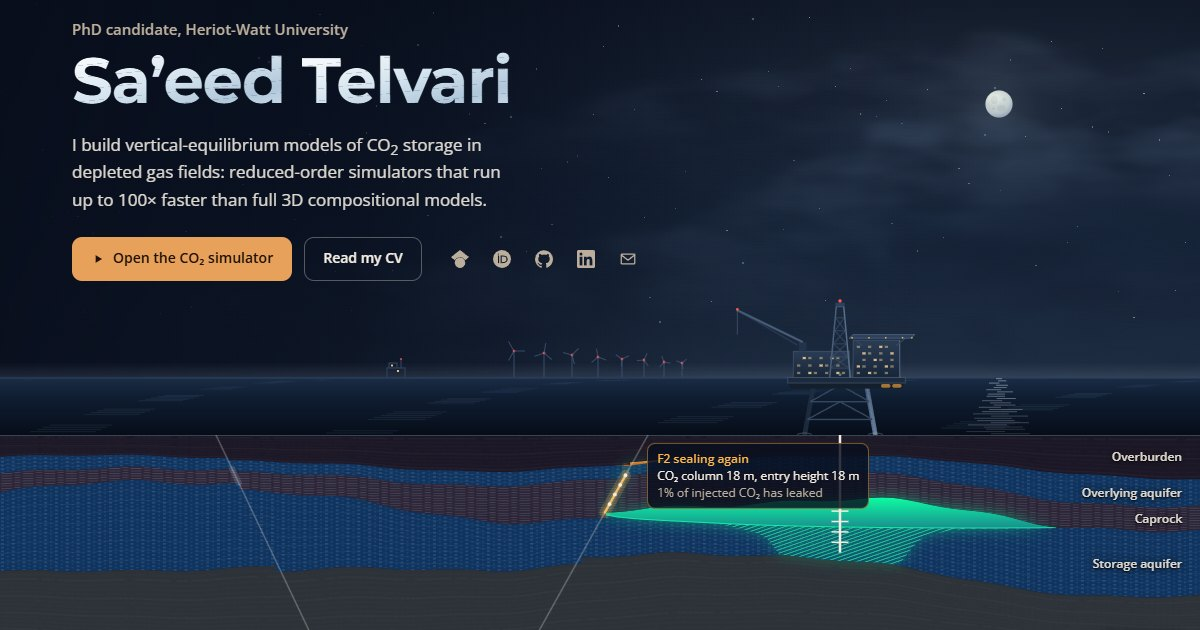
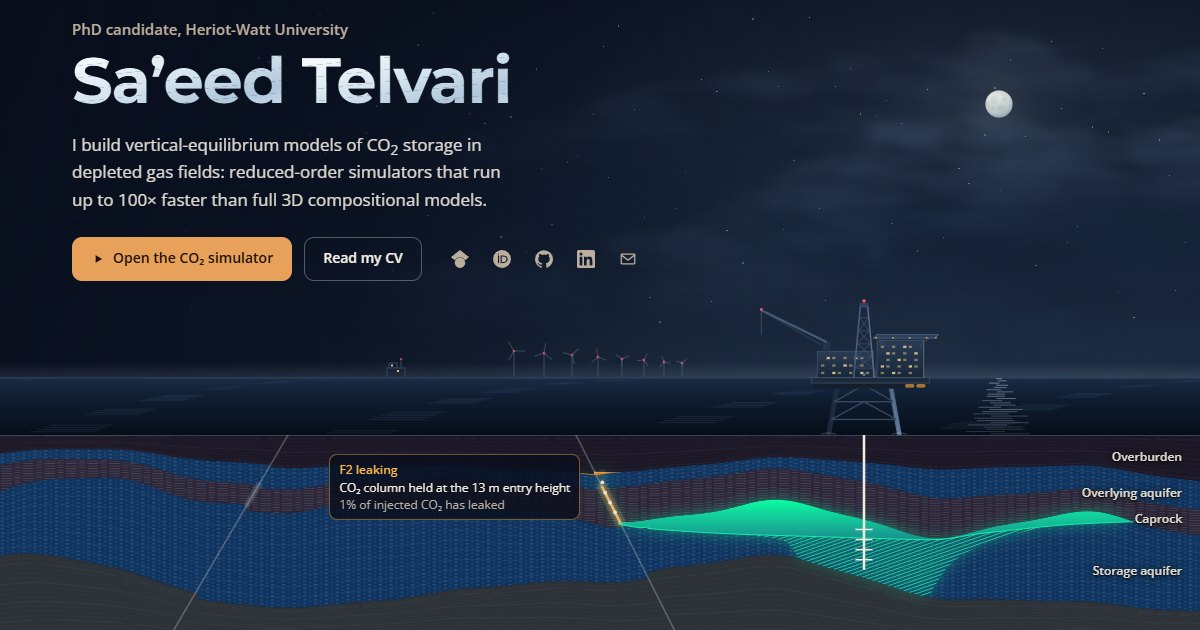
Place the leak label on the side of the fault away from the well
The label covered the well when it sat between the fault and the well.
It now goes on the far side when there is room. Social card re-rendered
with the corrected label.

diff --git a/SubsurfaceHero.jsx b/SubsurfaceHero.jsx
@@ -433,8 +433,9 @@ const HeroLeakReadout = ({ frame }) => {
   const leak = frame && HeroGeology.leakReadout(heroGeology, heroSection, frame);
   if (!leak) return null;
   const { to } = HERO_FAULTS[leak.fault];
-  // Sit on the open side of the fault so the label never runs off the section.
-  const side = to.x < 600 ? { left: `calc(${heroFixed(to.x / 10)}% + 22px)` } : { right: `calc(${heroFixed(100 - to.x / 10)}% + 22px)` };
+  // Sit on the side of the fault away from the well, unless that side has no room for the label.
+  const placeLeft = to.x < heroGeology.wellX ? to.x > 380 : to.x > 750;
+  const side = placeLeft ? { right: `calc(${heroFixed(100 - to.x / 10)}% + 22px)` } : { left: `calc(${heroFixed(to.x / 10)}% + 22px)` };
   return (
     <div className="hero-leak-readout" aria-hidden="true" style={{ ...side, top: heroDepthTop(to.y) }}>
       <strong>F{leak.fault + 1} leaking</strong>

diff --git a/bundle.js b/bundle.js
@@ -1844,11 +1844,12 @@ const HeroLeakReadout = ({
   const {
     to
   } = HERO_FAULTS[leak.fault];
-  // Sit on the open side of the fault so the label never runs off the section.
-  const side = to.x < 600 ? {
-    left: `calc(${heroFixed(to.x / 10)}% + 22px)`
-  } : {
+  // Sit on the side of the fault away from the well, unless that side has no room for the label.
+  const placeLeft = to.x < heroGeology.wellX ? to.x > 380 : to.x > 750;
+  const side = placeLeft ? {
     right: `calc(${heroFixed(100 - to.x / 10)}% + 22px)`
+  } : {
+    left: `calc(${heroFixed(to.x / 10)}% + 22px)`
   };
   return /*#__PURE__*/React.createElement("div", {
     className: "hero-leak-readout",
